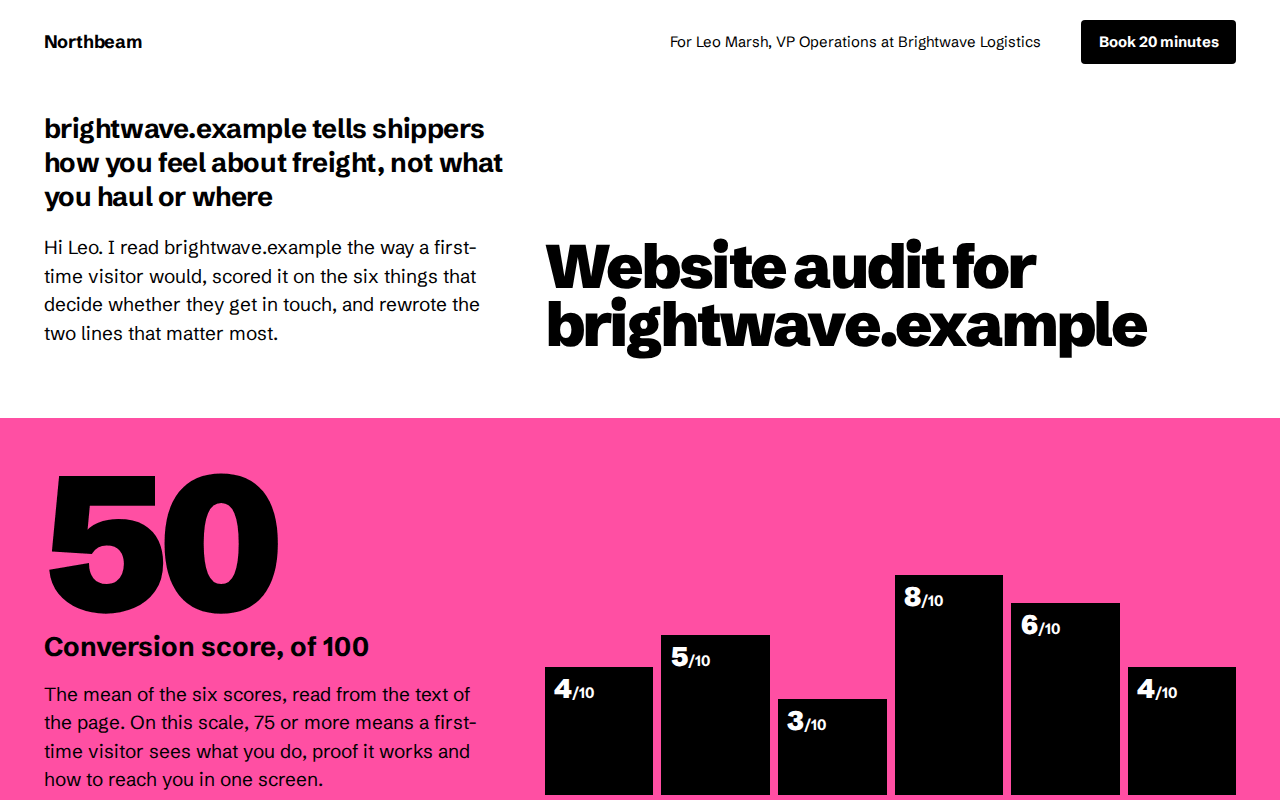
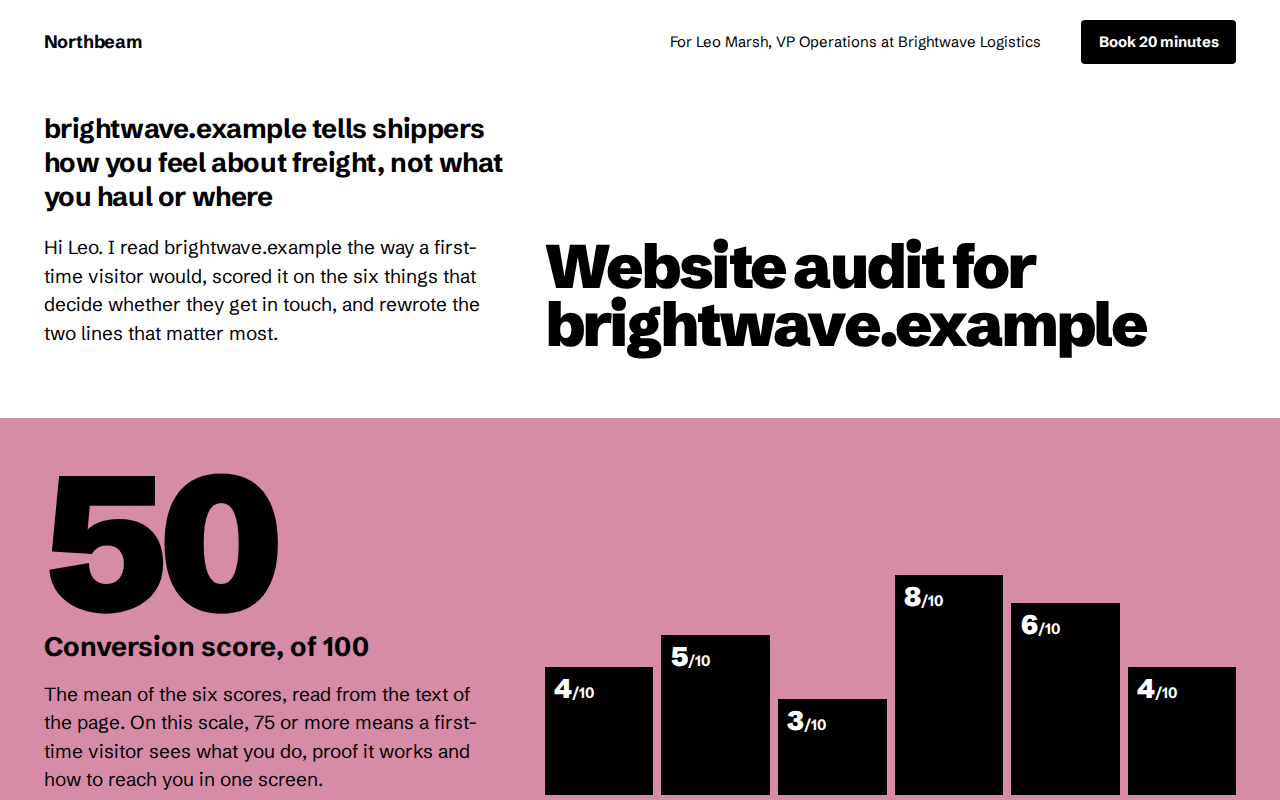
Library colour pass: site-audit, softer highlighter pink

diff --git a/starters/site-audit/preview/brightwave.html b/starters/site-audit/preview/brightwave.html
@@ -8,14 +8,14 @@
 <link rel="stylesheet" href="https://fonts.googleapis.com/css2?family=Schibsted+Grotesk:wght@400;700;900&display=swap">
 <style>
 :root{
-  --p:#ff4fa3;
+  --p:#d68ba7;
   --s:#000000;
   --fh:'Schibsted Grotesk',ui-sans-serif,system-ui,sans-serif;
   --fb:'Schibsted Grotesk',ui-sans-serif,system-ui,sans-serif;
   --ink:#000;
   --paper:#fff;
   --mute:#4d4d4d;
-  --hl:#ff9fcd;
+  --hl:#f8b3d3;
   --tint:#ffe6f2;
   --step-small:clamp(.875rem,.85rem + .1vw,.9375rem);
   --step-body:clamp(1.0625rem,1rem + .25vw,1.1875rem);
